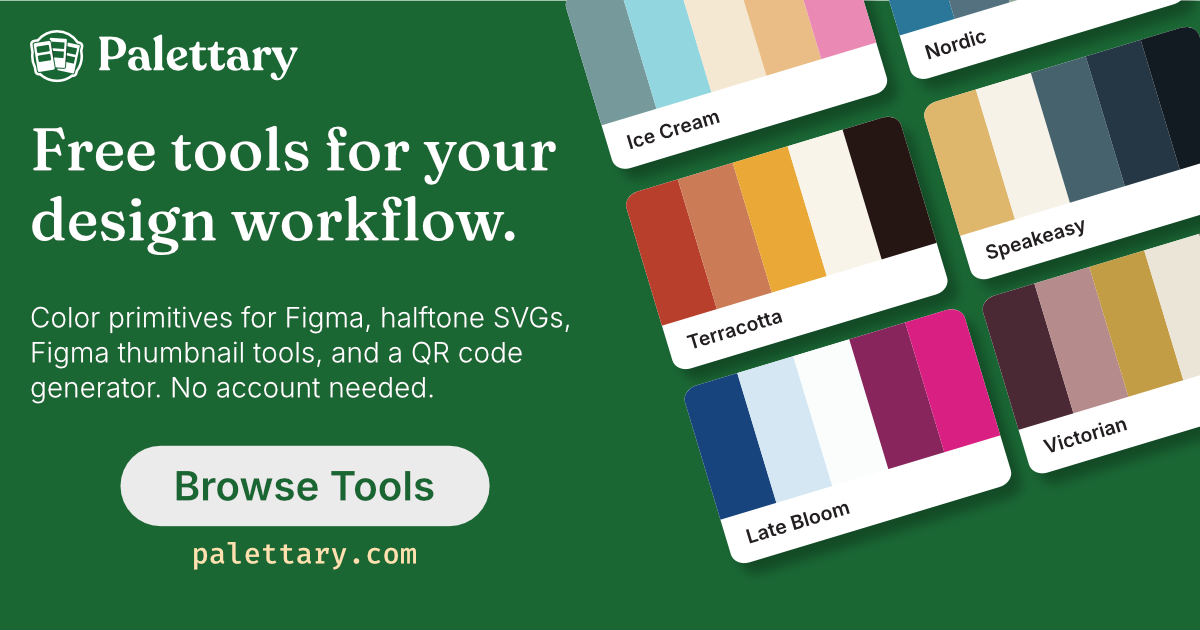
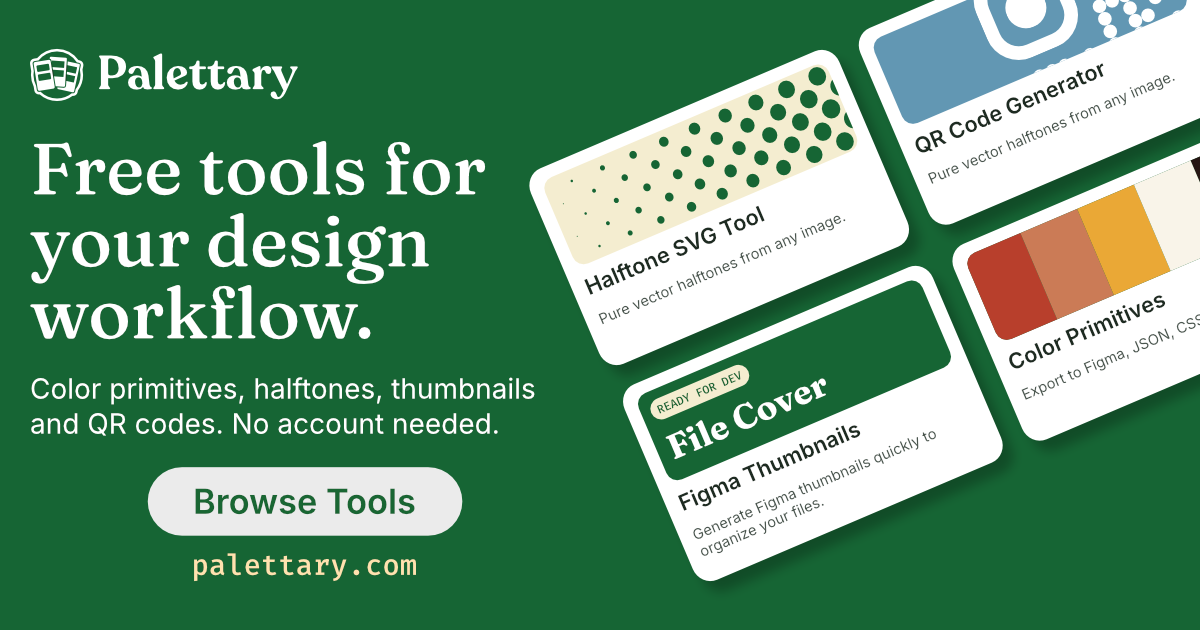
fix(qr): unquote url() references in SVG export for Affinity
Affinity ignores the quoted url('#id') form the QR library writes, so
clip paths were dropped and the whole code exported as solid black.
Rewrite clip-path and fill references to the unquoted url(#id) form.

Route every SVG download through downloadQrSvg, not just ones with a
logo, so the fix applies to all SVG exports.

Also refresh the home OG image.

diff --git a/src/js/qr.js b/src/js/qr.js
@@ -115,12 +115,22 @@ function inlineVectorLogo(qrSvgDoc, rawLogoSvgText) {
 /**
  * Build the SVG export, keeping an SVG logo as true vector markup rather than
  * embedding it as a nested-SVG <image> (renders fine in browsers, but isn't
- * supported by other SVG consumers — Illustrator silently drops it).
+ * supported by other SVG consumers — Illustrator silently drops it). Every SVG
+ * export goes through here, with or without a logo, so the Affinity fix applies.
  */
 async function downloadQrSvg(fileName, rawLogoSvgText) {
     const blob = await qrCode.getRawData('svg');
     const svgText = await blob.text();
     const doc = new DOMParser().parseFromString(svgText, 'image/svg+xml');
+
+    // The library writes references as url('#id'). Affinity ignores the quoted
+    // form, so the clip paths are lost and the whole code exports solid black.
+    doc.querySelectorAll('[clip-path], [fill]').forEach(el => {
+        ['clip-path', 'fill'].forEach(attr => {
+            const value = el.getAttribute(attr);
+            if (value) el.setAttribute(attr, value.replace(/url\(\s*['"]([^'"]*)['"]\s*\)/g, 'url($1)'));
+        });
+    });
 
     if (rawLogoSvgText) inlineVectorLogo(doc, rawLogoSvgText);
 
@@ -281,10 +291,13 @@ function initQrGenerator() {
     exportFormat.addEventListener('change', updateDownloadState);
 
     downloadBtn.addEventListener('click', () => {
-        if (exportFormat.value === 'svg' && logoSvgText) {
-            const activeLogoSvg = logoRecolorCheckbox.checked
-                ? recolorSvg(logoSvgText, dotColorInput.value)
-                : logoSvgText;
+        if (exportFormat.value === 'svg') {
+            let activeLogoSvg = null;
+            if (logoSvgText) {
+                activeLogoSvg = logoRecolorCheckbox.checked
+                    ? recolorSvg(logoSvgText, dotColorInput.value)
+                    : logoSvgText;
+            }
             downloadQrSvg('qr-code.svg', activeLogoSvg);
         } else {
             qrCode.download({ name: 'qr-code', extension: exportFormat.value });
